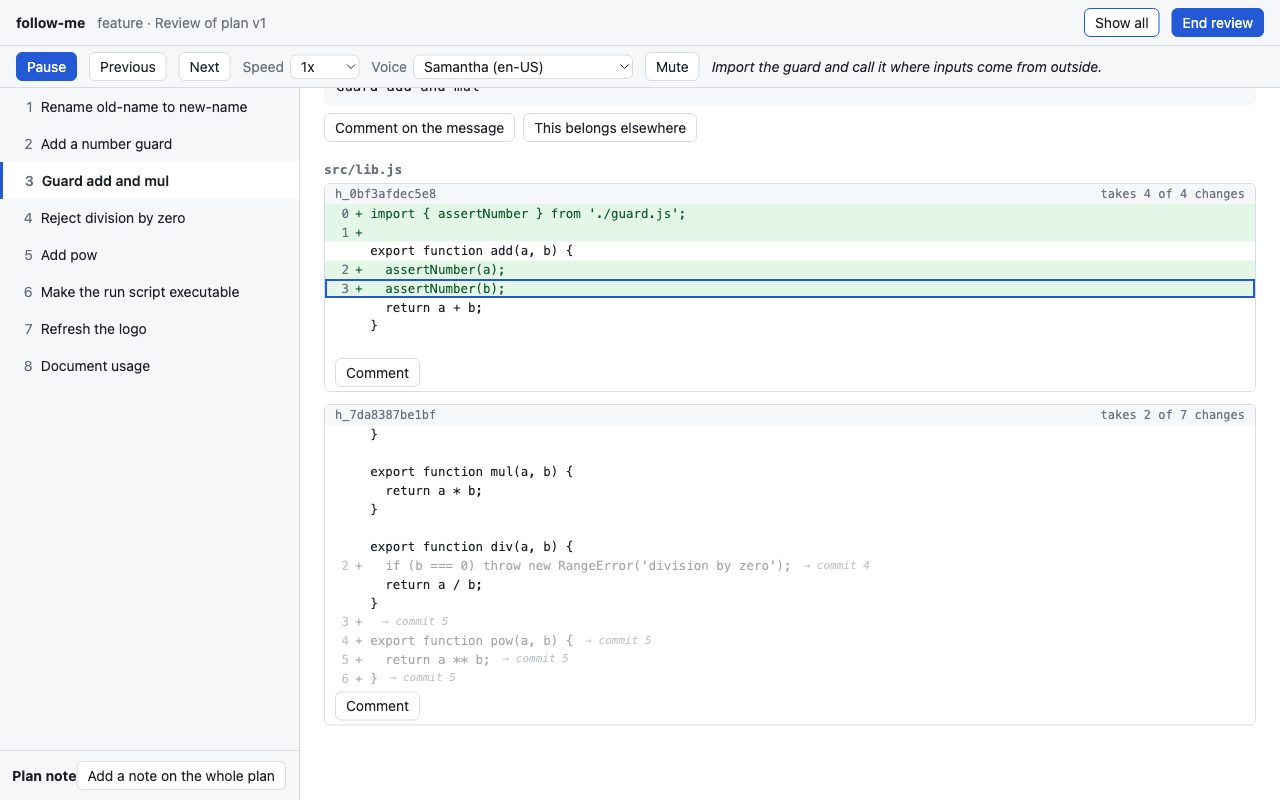
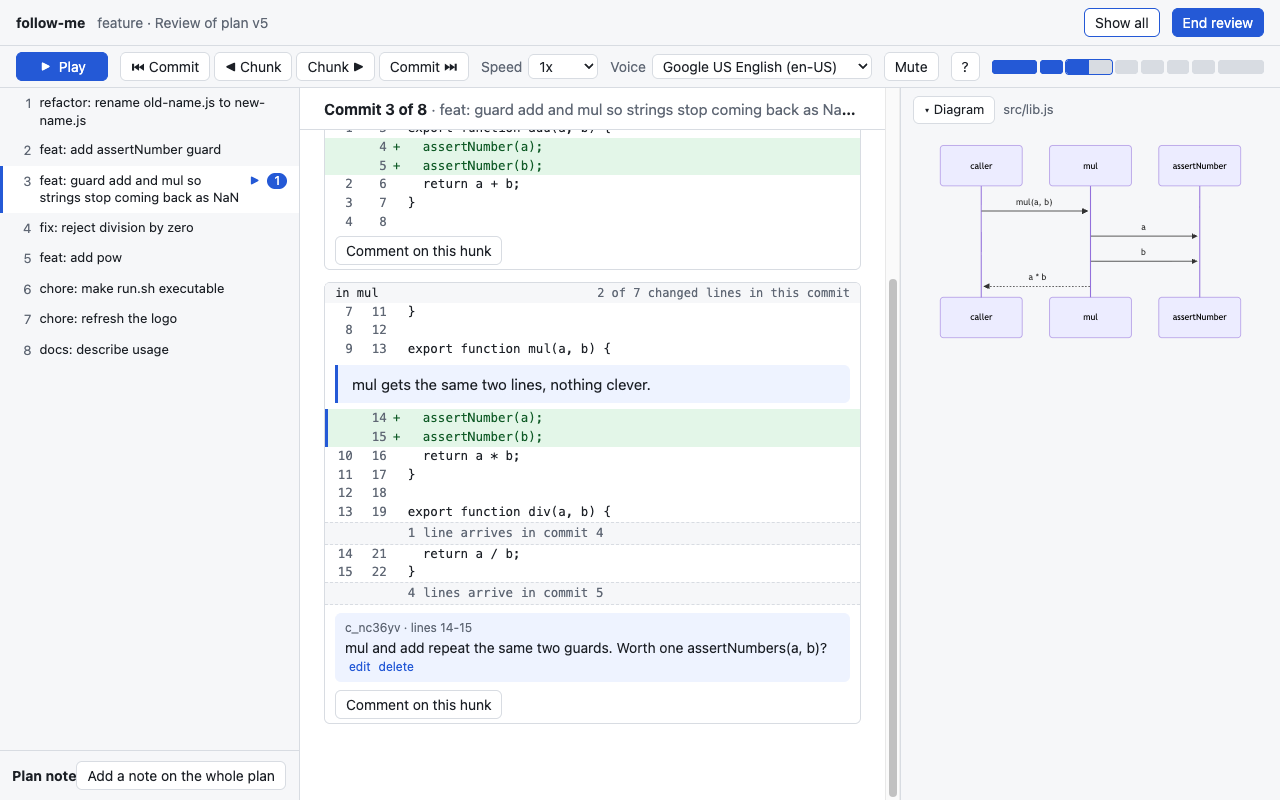
docs: describe the rebuilt review page and refresh its screenshots
DESIGN.md still described the line typewriter. It now explains the chunk
stepper, the per-commit reading of a hunk, file line numbers and the
Mermaid panel; the screenshots and their alt text show the new page.

diff --git a/docs/DESIGN.md b/docs/DESIGN.md
@@ -159,9 +159,39 @@ planner as comments to answer. `follow-me feedback` renders a walk review groupe
 each hunk as it reads in that commit with its line number on the tip. Walk reviews share
 `reviews/vN.json` with plan reviews, so one plan version gets one review of either kind.
 
-Playback is a script of steps built from the projected commits: a commit begins (its narration,
-else its title, is spoken), each unit begins (its narration is spoken and waited for), then each of
-the commit's own change lines appears or fades out. The UI holds a position into that script, and
-every line's look is a pure function of the position (`ui/playback.js`), so seeking, pausing and
-re-rendering never disagree. Speech uses the browser's `speechSynthesis`; muting keeps the timing
-without audio, and a timeout bounds engines that never report the end of an utterance.
+Playback is described in the next section.
+
+## The review page
+
+The page is a thin DOM shell (`ui/app.js`) over pure functions in `ui/playback.js`, which tsc
+checks and `test/playback.test.ts` covers. Anything a test can state as data lives there.
+
+Playback is a chunk stepper. `buildScript` turns the projected commits into beats: per commit an
+intro, one chunk per run of its own change lines inside one unit (at most three other lines between
+two change lines, cut to twelve lines, preferably right after a blank or closing line), one chunk
+per whole-file or mode unit, and an outro. A unit's narration goes on its first chunk. `schedule`
+turns beats into timed steps at a speed: a say step shows the narration card and speaks it, a show
+step reveals the chunk, a rest follows each chunk and a hold ends each commit. Reading time is
+`max(2000, 1000 + 300 per word)`, code time `clamp(1500 + 400 per non-blank added line + 200 per
+removed line, 2000, 9000)`, the rest 600ms and the hold 2500ms, all divided by the speed. A say step
+lasts its reading time or until speech ends, whichever is later. A commit without narration speaks
+its title and stays up long enough to read its whole message; a chunk without narration shows a
+generated label such as `src/lib.js · adds 2 lines in mul` and says nothing. Only one utterance
+exists at a time: every speak cancels the last, and every move retires the running loop by
+generation. The position is a step index, and every line's look is a pure function of it, so
+seeking, pausing and re-rendering never disagree.
+
+A hunk reads as it stands in its commit (`rowsOf`). The commit's own lines are the change, removals
+struck through. Lines earlier commits added are context, lines they removed are gone. Lines later
+commits remove are context, and lines later commits add fold into one row per run that links to
+their commit. The gutter shows base and tip line numbers (`lineNumbers`), computed from each hunk's
+base start shifted by earlier hunks of the file. Comments still anchor to change indices on the
+wire and are displayed by tip line number (`describeLines`).
+
+A commit and any unit may carry `diagram`, Mermaid source, beside `narration`. It parses like
+narration, and `parsePlanFile` rejects one whose first line does not name a Mermaid diagram type.
+The page draws the commit's diagram in a side panel and swaps to a unit's while playback is on that
+unit (`diagramAt`). The server serves Mermaid's ESM entry from `node_modules` at
+`/vendor/mermaid.mjs` and its chunks beside it, because the ESM build imports them by relative
+path. The page imports it only when the plan has a diagram, and shows Mermaid's error text in the
+panel when a diagram does not render.

diff --git a/README.md b/README.md
@@ -77,10 +77,10 @@ If the hashes differ, `apply` exits with code 1. The commits are signed when you
 
 The red blob in the party hat is your branch tip. Nothing follow-me does moves it.
 
-![The review page: the commit list on the left, commit 1 of 8 on the right with its message and two hunks](assets/screenshots/review.png)
+![The review page: the commit list on the left, commit 3 of 8 with file line numbers, a comment on lines 14-15 and its diagram on the right](assets/screenshots/review.png)
 *The review page. Pick a commit on the left. Comment on its message, its position ("This belongs elsewhere"), a hunk, or single lines.*
 
-![One hunk split across commits: commit 3's lines are bright, the rest are dimmed and marked with the commit that takes them](assets/screenshots/split-hunk.png)
+![One hunk split across commits: commit 4 adds one line, earlier commits' lines read as context and the four lines commit 5 adds fold into one row](assets/screenshots/split-hunk.png)
 *One hunk split across commits. Commit 3 takes 2 of 7 change lines. The others are dimmed and marked "→ commit 4" or "→ commit 5".*
 
 On the review page, `n` or `j` goes to the next commit, `p` or `k` to the previous one. **End review** saves `.follow-me/<branch>/reviews/vN.json`. An unfinished review autosaves and comes back when you open the session again.
@@ -95,7 +95,7 @@ follow-me walk --base main
 
 `walk` extracts the branch and plans it as a narrated story. With an Anthropic key in the environment it asks the API. Without one, it prints `follow-me prompt --walk` for your coding agent, and you run `follow-me walk` again once the agent's draft passes `follow-me check`. `walk` applies nothing and writes no branch.
 
-![Playback: lines of commit 3 type in, the narration caption reads "Import the guard and call it where inputs come from outside.", with speed and voice pickers](assets/screenshots/playback.png)
+![Playback: chunk 2 of 2 of commit 3, its narration card above the two lines it introduces, the progress strip in the player bar and the unit's sequence diagram beside the code](assets/screenshots/playback.png)
 *Playback. Each line types in while the narration for its commit or hunk is read aloud. The caption shows the narration being read.*
 
 Playback goes commit by commit. Space pauses, **Previous** and **Next** move between commits, and you can change the speed, pick a voice, or mute. Pause on any line to comment on it. Narration uses the browser's built-in speech synthesis, so it needs no key and no network.
